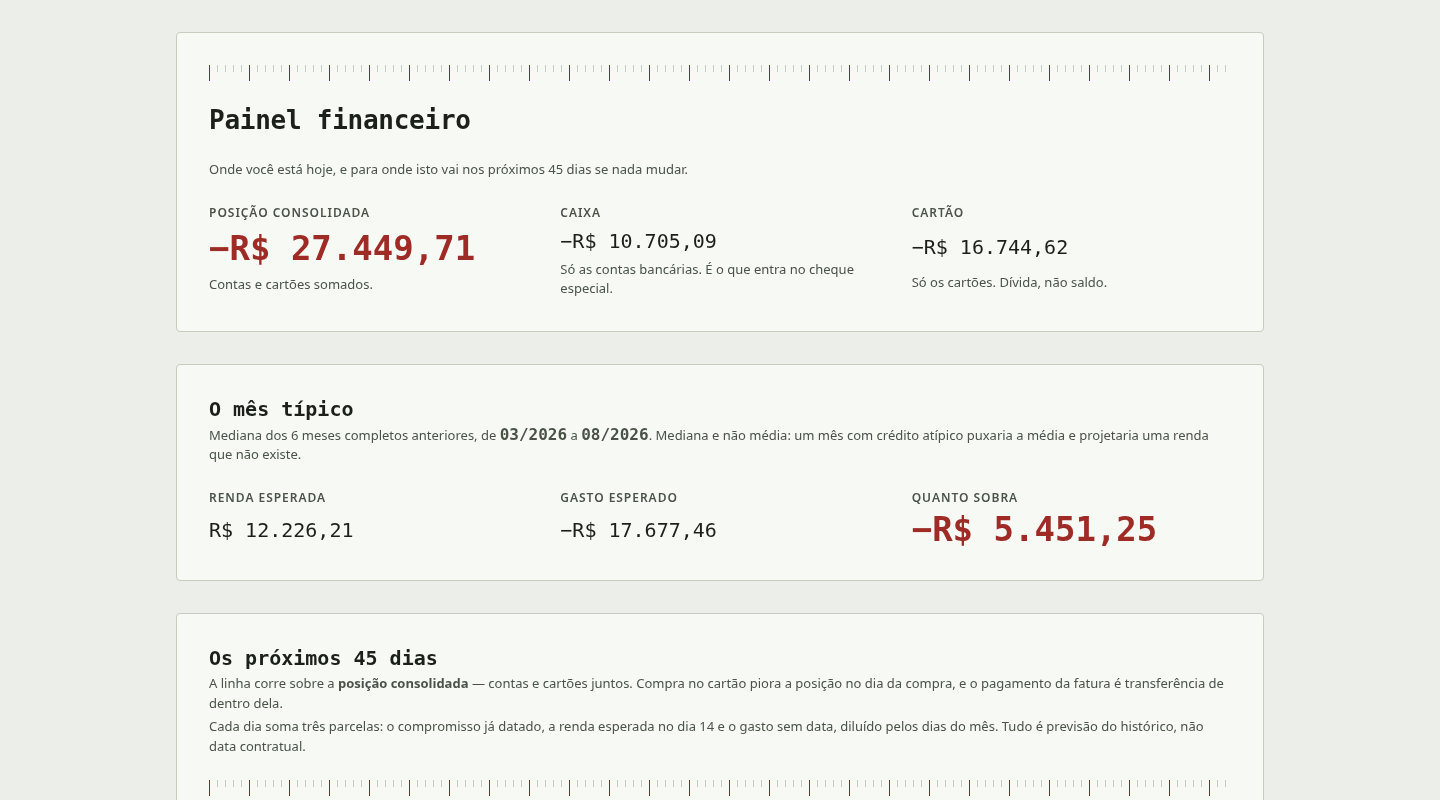
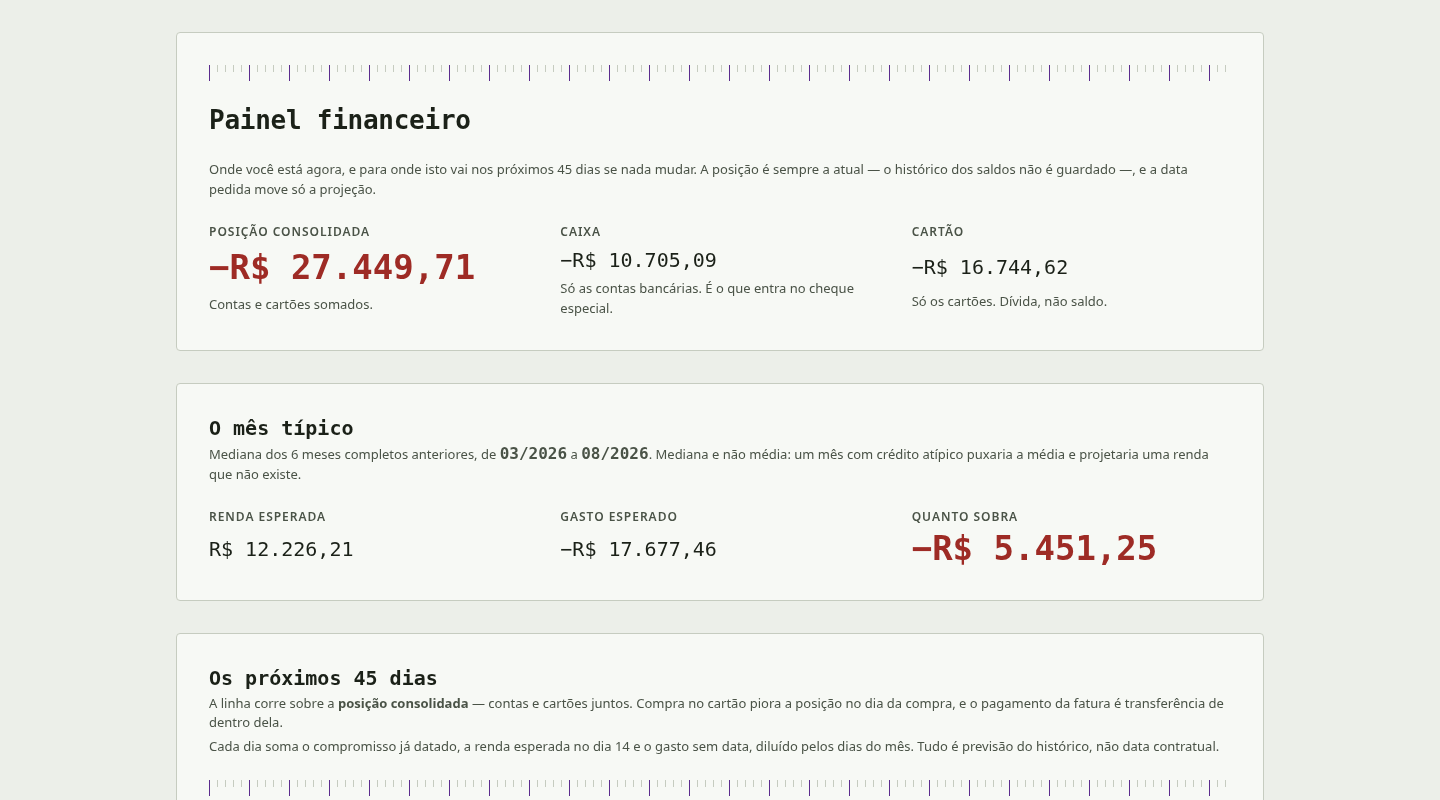
fix(004): the screen stops naming a day it is not describing
Fourth blind verdict, four remarks, all "the screen says something that is not
so". Fixed together:

- the start of the line was labelled "Hoje" while the balance is always the
  current one and the date beside it came from ?data=. It is now "Ponto de
  partida", and the screen says the position is current whenever the reference
  is not today.
- an unreadable date fell back to today in silence, answering a different
  question than the one asked. It still falls back, but says so.
- the last row of the window, kept so the list reaches the balance the header
  announces, rendered with no entries under it. It now says why it is there.
- the prose promised three parts even where two of them are zero.

diff --git a/app/templates/fragments/resumo_projecao.html b/app/templates/fragments/resumo_projecao.html
@@ -4,15 +4,15 @@
     <p class="lede">A linha corre sobre a <strong>posição consolidada</strong> — contas e cartões
       juntos. Compra no cartão piora a posição no dia da compra, e o pagamento da fatura é
       transferência de dentro dela.</p>
-    <p class="lede">Cada dia soma três parcelas: o compromisso já datado,
+    <p class="lede">Cada dia soma o compromisso já datado,
       {% if forecast['income_day'] %}a renda esperada no dia {{ forecast['income_day'] }}{% else %}nenhuma renda, porque não há entrada observada no histórico{% endif %}
-      e o gasto sem data, diluído pelos dias do mês. Tudo é previsão do histórico, não data
-      contratual.</p>
+      e {% if forecast['variable_cents'] %}o gasto sem data, diluído pelos dias do mês{% else %}nenhum gasto sem data, porque não há mês completo de onde tirar a mediana{% endif %}.
+      Tudo é previsão do histórico, não data contratual.</p>
   </div>
   <div class="scale" aria-hidden="true"></div>
   <div class="figures">
     <div class="stack-tight">
-      <p class="eyebrow">Hoje</p>
+      <p class="eyebrow">Ponto de partida</p>
       <p class="figure cifra">{{ start['balance_cents']|brl }}</p>
       <p class="lede">{{ start['date']|dia }}</p>
     </div>
@@ -49,6 +49,9 @@
         <p class="calendar-sum cifra">{{ entry['balance_cents']|brl }}</p>
       </div>
       <ul class="calendar-entries">
+        {% if not (entry['income_cents'] or entry['due_cents'] or entry['variable_cents']) %}
+        <li class="calendar-entry"><span class="calendar-name">fim da janela, sem movimento previsto</span></li>
+        {% endif %}
         {% if entry['income_cents'] %}
         <li class="calendar-entry">
           <span class="calendar-name">renda esperada <span class="cell-key">previsto pelo histórico</span></span>

diff --git a/app/templates/resumo.html b/app/templates/resumo.html
@@ -13,8 +13,12 @@
         <a href="/regras">Regras</a> dizem como cada gasto é classificado.</p>
     </div>
     {% else %}
-    <p class="lede">Onde você está hoje, e para onde isto vai nos próximos {{ window_days }} dias
-      se nada mudar.</p>
+    {% if notice %}
+    <p class="notice" id="recusa" role="alert">{{ notice }} A tela responde pela data de hoje.</p>
+    {% endif %}
+    <p class="lede">Onde você está agora, e para onde isto vai nos próximos {{ window_days }} dias
+      se nada mudar.{% if not asked_today %} A posição é sempre a atual — o histórico dos saldos
+      não é guardado —, e a data pedida move só a projeção.{% endif %}</p>
     <div class="figures">
       <div class="stack-tight">
         <p class="eyebrow">Posição consolidada</p>

diff --git a/app/routers/summary.py b/app/routers/summary.py
@@ -23,22 +23,25 @@ DATE_FIELD = "data"
 
 @router.get(SCREEN)
 def summary_screen(request: Request) -> Response:
+    today, notice = _reference(request.query_params.get(DATE_FIELD))
     conn = connect()
     try:
-        return TEMPLATES.TemplateResponse(
-            request, "resumo.html", _context(conn, _reference(request.query_params.get(DATE_FIELD)))
-        )
+        context = _context(conn, today)
+        context.update(notice=notice)
+        return TEMPLATES.TemplateResponse(request, "resumo.html", context)
     finally:
         conn.close()
 
 
-def _reference(asked: object) -> date:
+def _reference(asked: object) -> tuple[date, str | None]:
     # Reached by hand-typed URL as often as by its own links, so a date it cannot
-    # read falls back to today instead of a 500.
+    # read falls back to today instead of a 500 — and says so, because a screen
+    # that silently answers a different question than the one asked is worse
+    # than one that refuses.
     try:
-        return day(asked, DATE_FIELD)
-    except InvalidPeriodError:
-        return date.today()
+        return day(asked, DATE_FIELD), None
+    except InvalidPeriodError as refusal:
+        return date.today(), str(refusal)
 
 
 def _moving(days: list[dict[str, Any]]) -> list[dict[str, Any]]:
@@ -65,6 +68,11 @@ def _context(conn: sqlite3.Connection, today: date) -> dict[str, Any]:
     month = monthly(conn, today=today)
     return {
         "reference": today.isoformat(),
+        # The balances are always the current ones: no history of them is kept,
+        # so the reference date moves the projection and never the position.
+        # Saying "hoje" over a date the owner typed would be the screen naming
+        # a day it is not describing.
+        "asked_today": today == date.today(),
         "position": positions(conn),
         "month": month,
         "window_days": WINDOW_DAYS,

diff --git a/tests/test_resumo_screen.py b/tests/test_resumo_screen.py
@@ -203,3 +203,17 @@ def test_a_date_with_no_complete_month_behind_it_says_so(client):
     assert "de <span" not in _section(html, "mes")
     assert all(int(value) <= 0 for value in re.findall(r'data-variavel="(-?\d+)"', block))
     assert 'class="calendar-name">gasto sem data' not in block
+
+
+def test_a_date_it_cannot_read_is_said_out_loud(client):
+    html = client.get("/?data=banana").text
+
+    assert 'id="recusa"' in html
+    assert "A tela responde pela data de hoje." in html
+
+
+def test_a_reference_that_is_not_today_says_the_position_is_still_current(client):
+    html = client.get("/?data=2020-01-01").text
+
+    assert "A posição é sempre a atual" in html
+    assert "Ponto de partida" in _section(html, "projecao")
